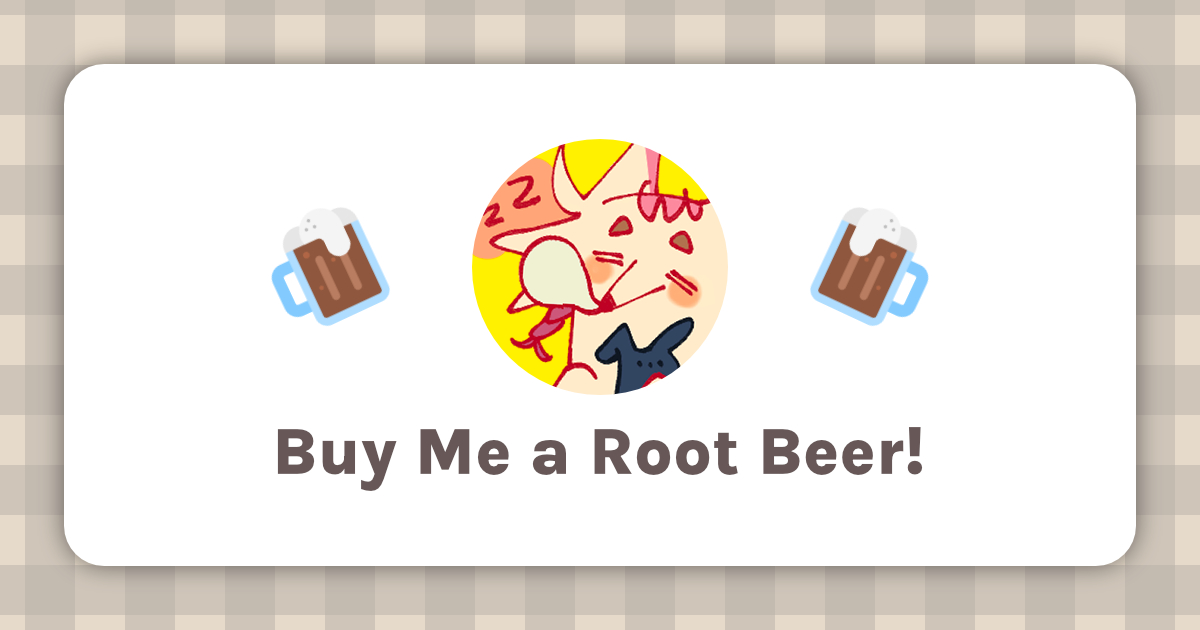
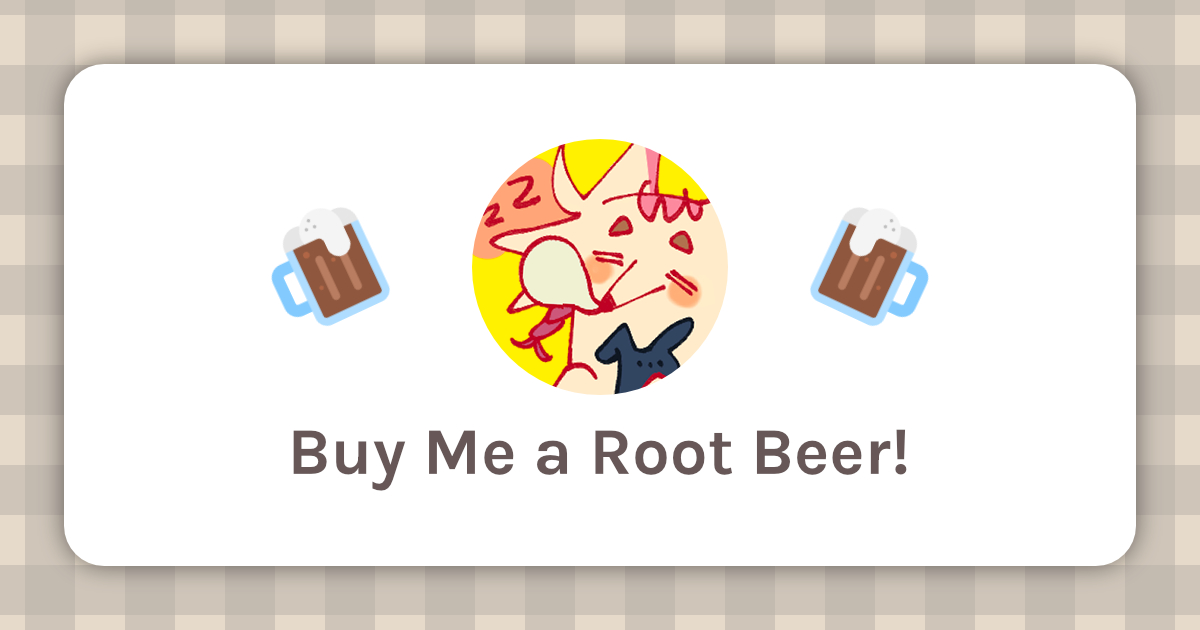
Changed card texts

Changed region(s): [[0.4933, 0.6635, 0.7708, 0.754], [0.2158, 0.6635, 0.4625, 0.7841]]

diff --git a/index.html b/index.html
@@ -6,11 +6,10 @@
     <meta name="viewport" content="width=device-width, initial-scale=1.0" />
 
     <title>Maomao</title>
-    <meta property="og:title" content="Support Maomao!"/>
-    <meta property="og:description" content="Buy me a Root Beer! 🍻"/>
+    <meta property="og:title" content="Come support Maomao! 🍻"/>
     <meta property="og:url" content="https://supportmaomao.netlify.app"/>
     <meta property="og:image" content="https://supportmaomao.netlify.app/maomao-card.jpg"/>
-    <meta property="og:image:type" content="image/png">
+    <meta property="og:image:type" content="image/jpg">
     <meta property="og:image:width" content="1200">
     <meta property="og:image:height" content="630"> 
     <meta name="theme-color" content="#fff100"/>
